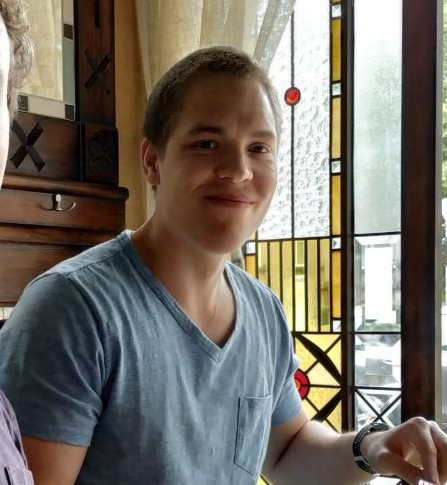
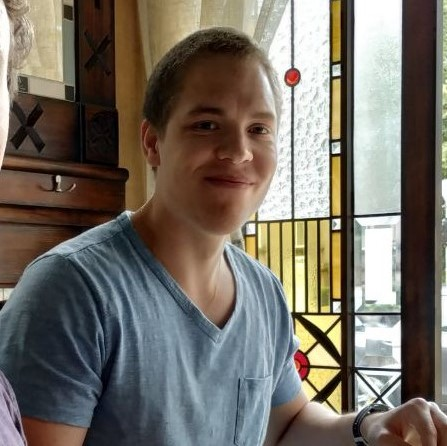
changed pictures in kontakt

diff --git a/W2/stylesheets/styles.css b/W2/stylesheets/styles.css
@@ -198,3 +198,11 @@ lh img{
 .container {
     position:relative;
 }
+
+/*Contact images of student assistants*/
+#studass{
+    display:block;
+    width: 200px;
+    height:200px;
+    border-radius: 60%;
+}

diff --git a/W2/kontakt/index.php b/W2/kontakt/index.php
@@ -33,8 +33,8 @@
                 <h1 class="mt">Studentassistenter</h1>
                 <div class="flex-container footer" style="text-align:center;">
                    <!-- <p class="split-narrow"><b>Øystein Fruseth Christiansen</b><br><img src="./images/øystein.png"><br><b>Mail:</b><a href="mailto:oysteifc@stud.ntnu.no">oysteifc@stud.ntnu.no</a><br><b>Mobil: <b> +47 48198828 </p> -->
-                   <p class="split-narrow" >Ane Vigre Håland <br><img src="../images/anon.png"><br> Mail: <a href="mailto:anevh@stud.ntnu.no"> anevh@stud.ntnu.no </a> <br> Mobil:+47 99332029  </p>
-                   <p class="split-narrow" >Alexander Johansen Ohrt <br><img src="../images/anon.png"><br> Mail: <a href="mailto:alexaoh@stud.ntnu.no"> alexaoh@stud.ntnu.no </a> <br> Mobil:+47 93836710  </p>
+                   <p class="split-narrow" >Ane Vigre Håland <br><img id="studass" alt="Picture can't load." src="../images/student_assistants/bilde_ane.jpg"><br> Mail: <a href="mailto:anevh@stud.ntnu.no"> anevh@stud.ntnu.no </a> <br> Mobil:+47 99332029  </p>
+                   <p class="split-narrow" >Alexander Johansen Ohrt <br><img id="studass" alt="Picture can't load." src="../images/student_assistants/AlexanderJO.jpg"><br> Mail: <a href="mailto:alexaoh@stud.ntnu.no"> alexaoh@stud.ntnu.no </a> <br> Mobil:+47 93836710  </p>
                 </div>
             </div>
 
